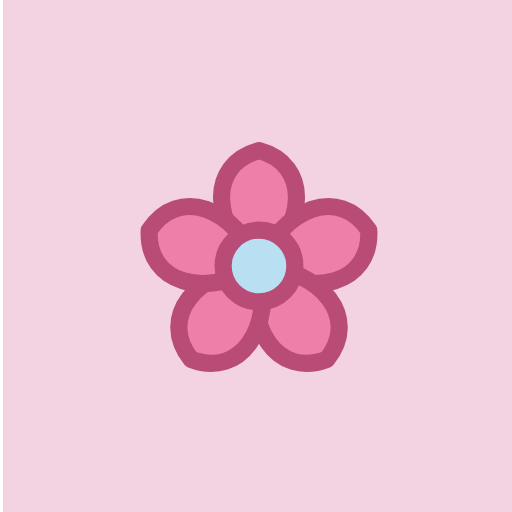
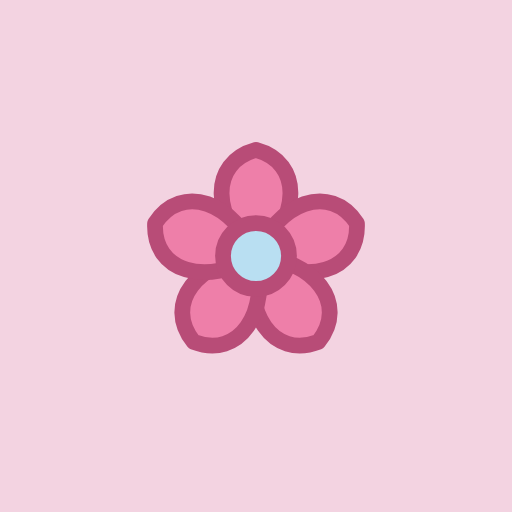
补齐小尺寸图标与 ico
- 新增 favicon-16/32/48.png 与 favicon.ico（含 16/32/48 三帧），页面补三条 link 与 mask-icon
- icon-maskable 两份按主站规格重做，花朵占画布 43%
- 新增 icons/preview.html
- 删除无引用的 _g2/_g3/_g4 调试页
- background_color 由 #f7f4fb 改为 #FAEDF2

Changed region(s): [[0.25, 0.2812, 0.75, 0.75], [0.0, 0.0, 0.0312, 1.0], [0.4375, 0.2812, 0.5, 0.375]]

diff --git a/icons/preview.html b/icons/preview.html
@@ -1,0 +1,354 @@
+<!DOCTYPE html>
+<html lang="zh-CN">
+<head>
+<meta charset="utf-8">
+<meta name="viewport" content="width=device-width, initial-scale=1">
+<title>英语阅读 · 图标预览</title>
+<link rel="icon" href="icon.svg" type="image/svg+xml">
+<link rel="icon" type="image/png" sizes="32x32" href="favicon-32.png">
+<link rel="apple-touch-icon" href="apple-touch-icon.png">
+<style>
+  :root{
+    --ink:#B84C77; --ink2:#C25580; --muted:#CC7A9B; --faint:#D690AC;
+    --acc:#EE7FA9; --bg:#F3D3E1; --card:#FDF9FB;
+    --line:#E4B0C5; --line2:#E8BBCE;
+    --h1:#EDC6D6; --h2:#EFCBDB; --h3:#FAEEF4;
+  }
+  *{box-sizing:border-box}
+  body{
+    margin:0;padding:34px 22px 70px;
+    background:radial-gradient(900px 420px at 50% -80px,var(--h3),rgba(255,255,255,0)),var(--bg);
+    color:var(--ink2);
+    font-family:-apple-system,BlinkMacSystemFont,"Segoe UI","PingFang SC","Microsoft YaHei",sans-serif;
+    -webkit-font-smoothing:antialiased;
+  }
+  .wrap{max-width:900px;margin:0 auto}
+  header{display:flex;align-items:center;gap:16px;margin-bottom:4px}
+  header img{width:56px;height:56px;border-radius:13px;box-shadow:0 6px 18px rgba(0,0,0,.14)}
+  h1{margin:0;font-size:21px;color:var(--ink);letter-spacing:.3px}
+  .sub{margin:5px 0 0;font-size:12px;color:var(--muted)}
+  h2{font-size:14px;color:var(--ink);margin:34px 0 12px;letter-spacing:.4px}
+  .card{background:var(--card);border:1px solid var(--line);border-radius:10px;padding:18px}
+  .note{font-size:12px;color:var(--muted);line-height:1.85;margin:10px 0 0}
+  .note b{color:var(--ink)}
+  .note:first-child{margin-top:0}
+
+  /* 尺寸一览 */
+  .sizes{display:flex;flex-wrap:wrap;gap:20px;align-items:flex-end}
+  .size{display:flex;flex-direction:column;align-items:center;gap:8px}
+  .size img{display:block}
+  .size span{font-size:11px;color:var(--faint)}
+
+  /* 浅色 / 深色 */
+  .envs{display:flex;gap:16px;flex-wrap:wrap}
+  .env{display:flex;align-items:center;gap:20px;padding:14px 18px;border-radius:9px;border:1px solid}
+  .env-l{background:#FFFFFF;border-color:#E3E3E3}
+  .env-d{background:#20242B;border-color:#2E3540}
+  .env-img{display:flex;align-items:center;gap:16px}
+  .env-img img{display:block}
+  .env-l span{color:#8A8A8A}
+  .env-d span{color:#8E98A6}
+  .env-tag{font-size:11px}
+
+  /* 标签页 */
+  .tabbar{display:flex;align-items:flex-end;gap:6px;padding:9px 10px 0;background:var(--h1);border-radius:10px 10px 0 0}
+  .tab{display:flex;align-items:center;gap:8px;background:var(--card);border:1px solid var(--line);border-bottom:0;
+       border-radius:8px 8px 0 0;padding:8px 12px 9px;min-width:200px;max-width:280px}
+  .tab img{width:16px;height:16px;display:block;flex:none}
+  .tab b{font-size:12px;font-weight:500;color:var(--ink);white-space:nowrap;overflow:hidden;text-overflow:ellipsis}
+  .tab i{margin-left:auto;font-style:normal;color:var(--line2);font-size:12px}
+  .pagebar{background:var(--card);border:1px solid var(--line);border-top:0;border-radius:0 0 10px 10px;padding:10px 12px;font-size:12px;color:var(--faint)}
+  .tabbar.dk{background:#202124}
+  .tabbar.dk .tab{background:#35363A;border-color:#3C4043;border-bottom:0}
+  .tabbar.dk .tab b{color:#E8EAED}
+  .tabbar.dk .tab i{color:#8AB4F8}
+  .pagebar.dk{background:#292A2D;border-color:#3C4043;border-top:0;color:#9AA0A6}
+
+  /* 书签栏 */
+  .bmbar{display:flex;align-items:center;gap:10px;background:var(--h1);border-radius:9px;padding:8px 12px}
+  .bm{display:flex;align-items:center;gap:7px;background:var(--card);border:1px solid var(--line);border-radius:6px;padding:6px 10px}
+  .bm img{width:16px;height:16px;display:block}
+  .bm span{font-size:12px;color:var(--ink)}
+
+  /* 主屏图标 */
+  .masks{display:flex;flex-wrap:wrap;gap:26px;align-items:flex-start}
+  .mask{display:flex;flex-direction:column;align-items:center;gap:9px;width:132px}
+  .mask .frame{width:120px;height:120px;overflow:hidden;box-shadow:0 6px 18px rgba(0,0,0,.16)}
+  .frame img{width:100%;height:100%;display:block}
+  .r-ios{border-radius:27px}
+  .r-squircle{border-radius:28px}
+  .r-circle{border-radius:50%}
+  .mask span{font-size:11px;color:var(--faint);text-align:center;line-height:1.5}
+
+  /* Windows 任务栏 */
+  .winbox{display:flex;flex-direction:column;gap:14px}
+  .taskbar{display:flex;align-items:center;gap:16px;height:46px;padding:0 18px;border-radius:9px}
+  .tb-l{background:#F3F3F3;border:1px solid #E2E2E2}
+  .tb-d{background:#1F1F1F;border:1px solid #2E2E2E}
+  .tb-icon{position:relative;width:24px;height:24px;flex:none}
+  .tb-icon img{width:24px;height:24px;display:block;border-radius:3px}
+  .tb-icon::after{content:"";position:absolute;left:50%;transform:translateX(-50%);bottom:-7px;width:13px;height:2.5px;border-radius:2px}
+  .tb-l .tb-icon::after{background:#9C9C9C}
+  .tb-d .tb-icon::after{background:#8A8A8A}
+  .tb-l span{font-size:11px;color:#9A9A9A;margin-left:4px}
+  .tb-d span{font-size:11px;color:#7C7C7C;margin-left:4px}
+
+  /* 应用窗口 */
+  .appwin{max-width:560px;border:1px solid #D4D4D4;border-radius:10px;overflow:hidden;box-shadow:0 12px 30px rgba(0,0,0,.12)}
+  .titlebar{display:flex;align-items:center;gap:9px;height:38px;padding-left:13px;background:#F3D3E1}
+  .titlebar img{width:16px;height:16px;border-radius:3px;display:block}
+  .titlebar b{font-size:12px;font-weight:500;color:#B84C77}
+  .titlebar .btns{margin-left:auto;display:flex;height:38px}
+  .titlebar .btns i{width:46px;display:flex;align-items:center;justify-content:center;font-style:normal;font-size:11px;color:#4A4A4A}
+  .winbody{background:#FAFAFA;padding:20px 16px;min-height:76px;display:flex;flex-direction:column;gap:9px}
+  .winbody .bar{height:9px;border-radius:5px;background:#E7E7EA}
+  .winbody .bar.s{width:58%}
+  .winbody .bar.m{width:78%}
+
+  /* Android 启动画面 */
+  .splash-row{display:flex;gap:26px;align-items:center;flex-wrap:wrap}
+  .stage{background:#E9E9EC;border:1px solid #DCDCE1;border-radius:14px;padding:22px 26px;display:inline-flex}
+  .phone{width:172px;height:306px;border-radius:19px;overflow:hidden;display:flex;align-items:center;justify-content:center;
+         border:1px solid rgba(0,0,0,.16);box-shadow:0 8px 20px rgba(0,0,0,.16)}
+  .phone img{width:82px;height:82px;display:block}
+  .splash-row .note{margin:0;flex:1;min-width:250px}
+
+  /* 表格 */
+  table{width:100%;border-collapse:collapse;font-size:12px}
+  th,td{text-align:left;padding:8px 10px;border-bottom:1px solid var(--h2);vertical-align:top}
+  th{color:var(--faint);font-weight:600;font-size:11px;letter-spacing:.4px}
+  td code{background:var(--h3);border:1px solid var(--h1);border-radius:4px;padding:1px 5px;font-size:11px;color:var(--ink)}
+  .dim{color:var(--muted)}
+  pre{background:var(--h3);border:1px solid var(--h1);border-radius:8px;padding:12px 14px;overflow:auto;
+      font-size:12px;line-height:1.7;color:var(--ink);margin:8px 0 0}
+  pre code{font:inherit}
+  .cap{font-size:11px;color:var(--faint);margin:0 0 10px}
+</style>
+</head>
+<body>
+<div class="wrap">
+  <header>
+    <img src="icon-192.png" alt="图标">
+    <div>
+      <h1>英语阅读 · 图标</h1>
+      <p class="sub">标签页 / 书签 / 桌面快捷方式 / iOS / Android</p>
+    </div>
+  </header>
+
+  <h2>多尺寸预览</h2>
+  <div class="card">
+    <div class="sizes">
+      <div class="size"><img src="favicon-16.png" width="16" height="16" alt=""><span>16</span></div>
+      <div class="size"><img src="favicon-32.png" width="32" height="32" alt=""><span>32</span></div>
+      <div class="size"><img src="favicon-48.png" width="48" height="48" alt=""><span>48</span></div>
+      <div class="size"><img src="apple-touch-icon.png" width="118" height="118" alt=""><span>180</span></div>
+      <div class="size"><img src="icon-192.png" width="118" height="118" alt=""><span>192</span></div>
+      <div class="size"><img src="icon-512.png" width="118" height="118" alt=""><span>512</span></div>
+    </div>
+  </div>
+
+  <h2>浅色 / 深色环境</h2>
+  <div class="card">
+    <p class="cap">图标本身不透明，放到深色底上会显出一块浅色方片，这是正常的。要看的是花瓣和描边分不分得开。</p>
+    <div class="envs">
+      <div class="env env-l">
+        <div class="env-img">
+          <img src="favicon-16.png" width="16" height="16" alt="">
+          <img src="favicon-32.png" width="32" height="32" alt="">
+          <img src="favicon-48.png" width="48" height="48" alt="">
+        </div>
+        <span class="env-tag">浅色</span>
+      </div>
+      <div class="env env-d">
+        <div class="env-img">
+          <img src="favicon-16.png" width="16" height="16" alt="">
+          <img src="favicon-32.png" width="32" height="32" alt="">
+          <img src="favicon-48.png" width="48" height="48" alt="">
+        </div>
+        <span class="env-tag">深色</span>
+      </div>
+    </div>
+  </div>
+
+  <h2>浏览器标签页</h2>
+  <div class="card" style="padding:0;overflow:hidden">
+    <div class="tabbar">
+      <div class="tab"><img src="favicon-16.png" alt=""><b>英语一真题阅读资料库</b><i>×</i></div>
+      <div class="tab" style="opacity:.55"><img src="favicon-16.png" alt=""><b>新标签页</b><i>×</i></div>
+    </div>
+    <div class="pagebar">地址栏左侧显示的正是 16×16 图标</div>
+  </div>
+  <div class="card" style="padding:0;overflow:hidden;margin-top:14px">
+    <div class="tabbar dk">
+      <div class="tab"><img src="favicon-16.png" alt=""><b>英语一真题阅读资料库</b><i>×</i></div>
+      <div class="tab" style="opacity:.55"><img src="favicon-16.png" alt=""><b>新标签页</b><i>×</i></div>
+    </div>
+    <div class="pagebar dk">深色主题下同一张 16×16。图标不透明，所以是一块浅色小方片，所有网站都这样</div>
+  </div>
+
+  <h2>收藏夹 / 书签栏</h2>
+  <div class="card">
+    <div class="bmbar">
+      <div class="bm"><img src="favicon-16.png" alt=""><span>英语阅读</span></div>
+      <div class="bm" style="opacity:.6"><img src="favicon-16.png" alt=""><span>其他书签</span></div>
+    </div>
+  </div>
+
+  <h2>主屏图标</h2>
+  <div class="card">
+    <p class="cap">系统会自己套圆角或圆形，所以要看的是裁完还剩多少花。</p>
+    <div class="masks">
+      <div class="mask"><div class="frame r-ios"><img src="apple-touch-icon.png" alt=""></div><span>iOS / iPadOS<br>180 加圆角</span></div>
+      <div class="mask"><div class="frame r-squircle"><img src="icon-maskable-512.png" alt=""></div><span>Android 圆角方形<br>maskable</span></div>
+      <div class="mask"><div class="frame r-circle"><img src="icon-maskable-512.png" alt=""></div><span>Android 圆形<br>maskable</span></div>
+    </div>
+    <p class="note">
+      安卓的圆角方形和圆形读的都是 manifest 里 <code>purpose: "maskable"</code> 那张，所以两个框里的花一样大。如果没声明 maskable，系统会拿普通图标往自适应框里塞，花会缩小并垫一圈底色。
+    </p>
+  </div>
+
+  <h2>Windows 任务栏与应用窗口</h2>
+  <div class="card">
+    <div class="winbox">
+      <div class="taskbar tb-l">
+        <div class="tb-icon"><img src="icon-192.png" alt=""></div>
+        <div class="tb-icon" style="opacity:.45"><img src="icon-192.png" alt=""></div>
+        <span>浅色任务栏 · 24×24</span>
+      </div>
+      <div class="taskbar tb-d">
+        <div class="tb-icon"><img src="icon-192.png" alt=""></div>
+        <div class="tb-icon" style="opacity:.45"><img src="icon-192.png" alt=""></div>
+        <span>深色任务栏 · 24×24</span>
+      </div>
+      <div class="appwin">
+        <div class="titlebar">
+          <img src="favicon-32.png" alt="">
+          <b>英语阅读</b>
+          <div class="btns"><i>—</i><i>□</i><i>✕</i></div>
+        </div>
+        <div class="winbody">
+          <div class="bar m"></div>
+          <div class="bar s"></div>
+        </div>
+      </div>
+    </div>
+    <p class="note">
+      装成应用后，任务栏取 192 或 512 那张缩到 24px 显示；窗口标题栏底色是 manifest 的 <code>theme_color</code>（<code>#F3D3E1</code>），左边那颗小图标取 32 那张。
+    </p>
+  </div>
+
+  <h2>Android 启动画面</h2>
+  <div class="card">
+    <div class="splash-row">
+      <div>
+        <div class="stage">
+          <div class="phone" style="background:#FAEDF2"><img src="icon-512.png" alt=""></div>
+        </div>
+        <p class="cap" style="margin:10px 0 0;text-align:center">底色 <code>#FAEDF2</code></p>
+      </div>
+      <p class="note">
+        点开应用那一瞬间显示的画面：底色取 manifest 的 <code>background_color</code>，中间那张来自 512 图标。<br>
+        所以背景色如果和图标底色差太远，这一下会闪；本页这张是按真实值铺的，看着不突兀就对了。
+      </p>
+    </div>
+  </div>
+
+  <h2>文件清单</h2>
+  <div class="card">
+    <table>
+      <tr><th>文件</th><th>尺寸</th><th>用途</th></tr>
+      <tr><td colspan="3" class="dim">上一级目录（站点根）</td></tr>
+      <tr><td><code>index.html</code></td><td>—</td><td>主页面，按下方写法引用本目录图标</td></tr>
+      <tr><td><code>manifest.webmanifest</code></td><td>—</td><td>PWA 声明，图标指向本目录</td></tr>
+      <tr><td colspan="3" class="dim">本目录 <code>icons/</code></td></tr>
+      <tr><td><code>icon.svg</code></td><td>矢量</td><td>标签页、书签、Safari 固定标签页的源图</td></tr>
+      <tr><td><code>icon-maskable.svg</code></td><td>矢量</td><td>上面那份加 <code>scale(0.717)</code>，留出裁切安全边距</td></tr>
+      <tr><td><code>favicon.ico</code></td><td>16/32/48</td><td>传统标签页、Windows 快捷方式</td></tr>
+      <tr><td><code>favicon-16.png</code></td><td>16</td><td>标签页、书签栏（源图直接缩放）</td></tr>
+      <tr><td><code>favicon-32.png</code></td><td>32</td><td>高分辨率标签页、书签、窗口小图标</td></tr>
+      <tr><td><code>favicon-48.png</code></td><td>48</td><td>Windows 站点图标</td></tr>
+      <tr><td><code>apple-touch-icon.png</code></td><td>180</td><td>iOS / iPadOS 添加到主屏幕</td></tr>
+      <tr><td><code>icon-192.png</code></td><td>192</td><td>Android 主屏幕、任务栏</td></tr>
+      <tr><td><code>icon-512.png</code></td><td>512</td><td>Android 启动画面 / PWA</td></tr>
+      <tr><td><code>icon-maskable-512.png</code></td><td>512</td><td>Android 自适应图标</td></tr>
+      <tr><td><code>preview.html</code></td><td>—</td><td>本页，只作查看用，不参与站点运行</td></tr>
+    </table>
+  </div>
+
+  <h2>接入方式</h2>
+  <div class="card">
+    <p class="note"><code>index.html</code> 的 <code>&lt;head&gt;</code> 里写这六条，路径都指向本目录：</p>
+<pre>&lt;link rel="icon" href="icons/icon.svg" type="image/svg+xml"&gt;
+&lt;link rel="icon" href="icons/favicon.ico" sizes="16x16 32x32 48x48"&gt;
+&lt;link rel="icon" type="image/png" sizes="32x32" href="icons/favicon-32.png"&gt;
+&lt;link rel="icon" type="image/png" sizes="16x16" href="icons/favicon-16.png"&gt;
+&lt;link rel="apple-touch-icon" sizes="180x180" href="icons/apple-touch-icon.png"&gt;
+&lt;link rel="mask-icon" href="icons/icon.svg" color="#B84C77"&gt;</pre>
+    <p class="note">安装成应用还要靠 manifest，本目录相关的这几行是：</p>
+<pre>"icons": [
+  { "src": "icons/icon.svg",             "sizes": "any",     "type": "image/svg+xml", "purpose": "any" },
+  { "src": "icons/icon-192.png",         "sizes": "192x192", "type": "image/png",     "purpose": "any" },
+  { "src": "icons/icon-512.png",         "sizes": "512x512", "type": "image/png",     "purpose": "any" },
+  { "src": "icons/icon-maskable-512.png","sizes": "512x512", "type": "image/png",     "purpose": "maskable" }
+],
+"theme_color": "#F3D3E1",
+"background_color": "#FAEDF2"</pre>
+  </div>
+
+  <h2>设计说明</h2>
+  <div class="card">
+    <p class="note">
+      <b>配色</b>：底色 <code>#F3D3E1</code>、花瓣 <code>#EE7FA9</code>、描边 <code>#B84C77</code>、花心 <code>#B9DFF2</code>。整个图标只有这四个值，换站换这四个就够。<br>
+      <b>两处底色</b>：应用窗口顶栏取 <code>theme_color</code> <code>#F3D3E1</code>，启动画面取 <code>background_color</code> <code>#FAEDF2</code>，这两项分开设置，改一处别忘了另一处。<br>
+      <b>16×16</b>：由 <code>icon.svg</code> 直接缩放，没有额外加粗。16px 已经是最小一档，描边会带一点抗锯齿，属于正常现象。<br>
+      <b>maskable 版</b>：安卓会按自己的形状裁切，所以内容缩到 71.7%，花瓣稳稳落在安全区内，圆角、圆形、水滴形怎么裁都切不到。
+    </p>
+  </div>
+
+  <h2>Svg 源码</h2>
+  <div class="card">
+    <p class="note">
+      所有尺寸都从这一个矢量源出，花型只有这一套。要换站，只改四个颜色：底色、花瓣、描边、花心。<br>
+      文件里是压成一整行的，下面按行拆开并加了注释，渲染结果与 <code>icon.svg</code> 逐像素相同，可以直接整段复制另存。
+    </p>
+<pre>&lt;svg xmlns="http://www.w3.org/2000/svg" viewBox="0 0 512 512" width="512" height="512"&gt;
+
+  &lt;!-- 底色 --&gt;
+  &lt;rect width="512" height="512" fill="#F3D3E1"/&gt;
+
+  &lt;!-- 整朵花居中：translate 定到画布中心，scale 控制大小 --&gt;
+  &lt;g transform="translate(256,256)"&gt;
+
+    &lt;!-- 一片花瓣，复制五份，靠 rotate 转出整圈；fill 花瓣色，stroke 描边色 --&gt;
+    &lt;path d="M0 0 C -62 -52, -66 -130, 0 -148 C 66 -130, 62 -52, 0 0 Z"
+          fill="#EE7FA9" stroke="#B84C77" stroke-width="22" stroke-linejoin="round"
+          transform="rotate(0)"/&gt;
+    &lt;path d="M0 0 C -62 -52, -66 -130, 0 -148 C 66 -130, 62 -52, 0 0 Z"
+          fill="#EE7FA9" stroke="#B84C77" stroke-width="22" stroke-linejoin="round"
+          transform="rotate(72)"/&gt;
+    &lt;path d="M0 0 C -62 -52, -66 -130, 0 -148 C 66 -130, 62 -52, 0 0 Z"
+          fill="#EE7FA9" stroke="#B84C77" stroke-width="22" stroke-linejoin="round"
+          transform="rotate(144)"/&gt;
+    &lt;path d="M0 0 C -62 -52, -66 -130, 0 -148 C 66 -130, 62 -52, 0 0 Z"
+          fill="#EE7FA9" stroke="#B84C77" stroke-width="22" stroke-linejoin="round"
+          transform="rotate(216)"/&gt;
+    &lt;path d="M0 0 C -62 -52, -66 -130, 0 -148 C 66 -130, 62 -52, 0 0 Z"
+          fill="#EE7FA9" stroke="#B84C77" stroke-width="22" stroke-linejoin="round"
+          transform="rotate(288)"/&gt;
+
+    &lt;!-- 花心 --&gt;
+    &lt;circle r="46" fill="#B9DFF2" stroke="#B84C77" stroke-width="22"/&gt;
+
+  &lt;/g&gt;
+&lt;/svg&gt;</pre>
+    <p class="note">
+      <b>maskable 版</b>只差一处，其余整段照抄，把那行换成：
+    </p>
+<pre>&lt;g transform="translate(256,256) scale(0.717)"&gt;</pre>
+    <p class="note">
+      0.717 是这么定的：安卓自适应图标只有中心那个直径占画布 80% 的圆一定不会被裁。花朵外接圆直径本来是画布的 62%，乘 0.717 后约 44%，四周还留一半余量，怎么裁都碰不到花瓣。
+    </p>
+  </div>
+</div>
+</body>
+</html>

diff --git a/index.html b/index.html
@@ -5,7 +5,11 @@
 <meta name="viewport" content="width=device-width, initial-scale=1.0">
 <title>英语一真题阅读资料库</title>
 <link rel="icon" href="icons/icon.svg" type="image/svg+xml">
-<link rel="apple-touch-icon" href="icons/apple-touch-icon.png">
+<link rel="icon" href="icons/favicon.ico" sizes="16x16 32x32 48x48">
+<link rel="icon" type="image/png" sizes="32x32" href="icons/favicon-32.png">
+<link rel="icon" type="image/png" sizes="16x16" href="icons/favicon-16.png">
+<link rel="apple-touch-icon" sizes="180x180" href="icons/apple-touch-icon.png">
+<link rel="mask-icon" href="icons/icon.svg" color="#B84C77">
 <link rel="manifest" href="manifest.webmanifest">
 <meta name="theme-color" content="#F3D3E1">
 <meta name="apple-mobile-web-app-capable" content="yes">
